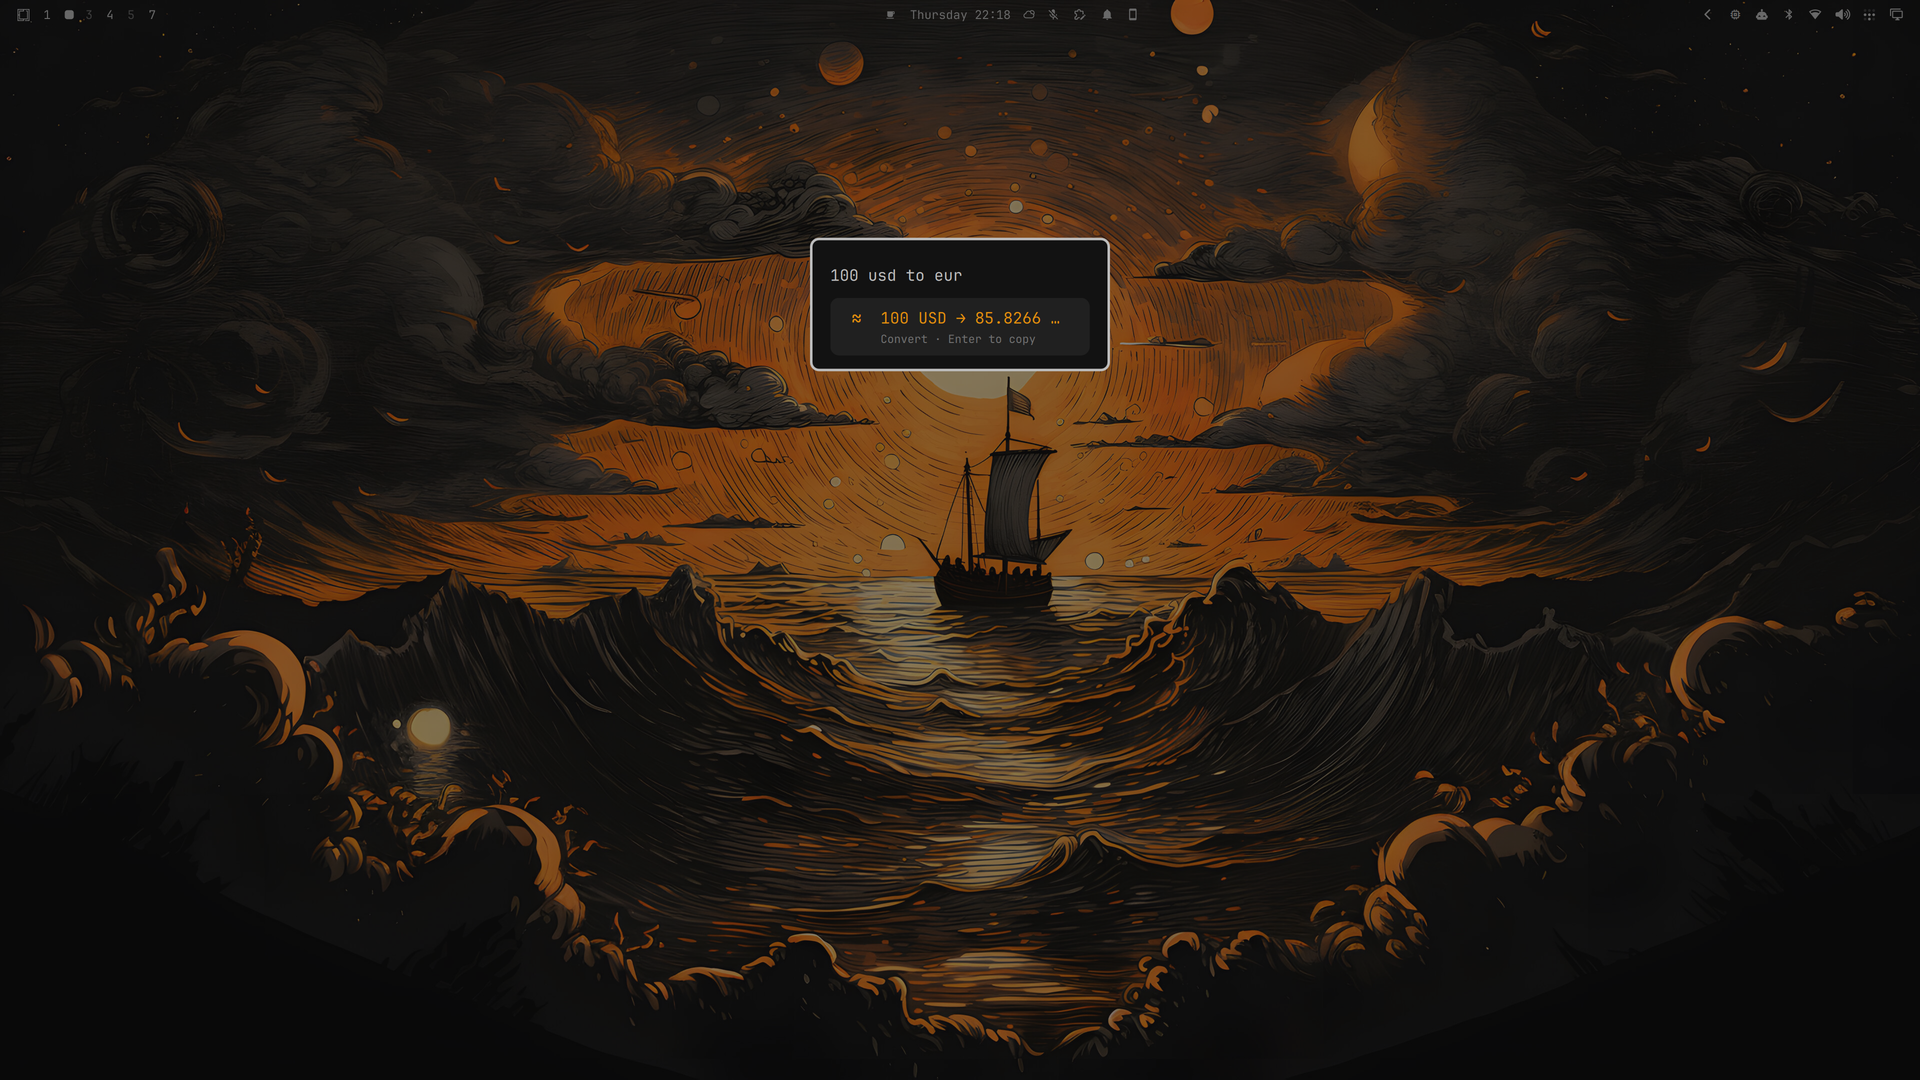
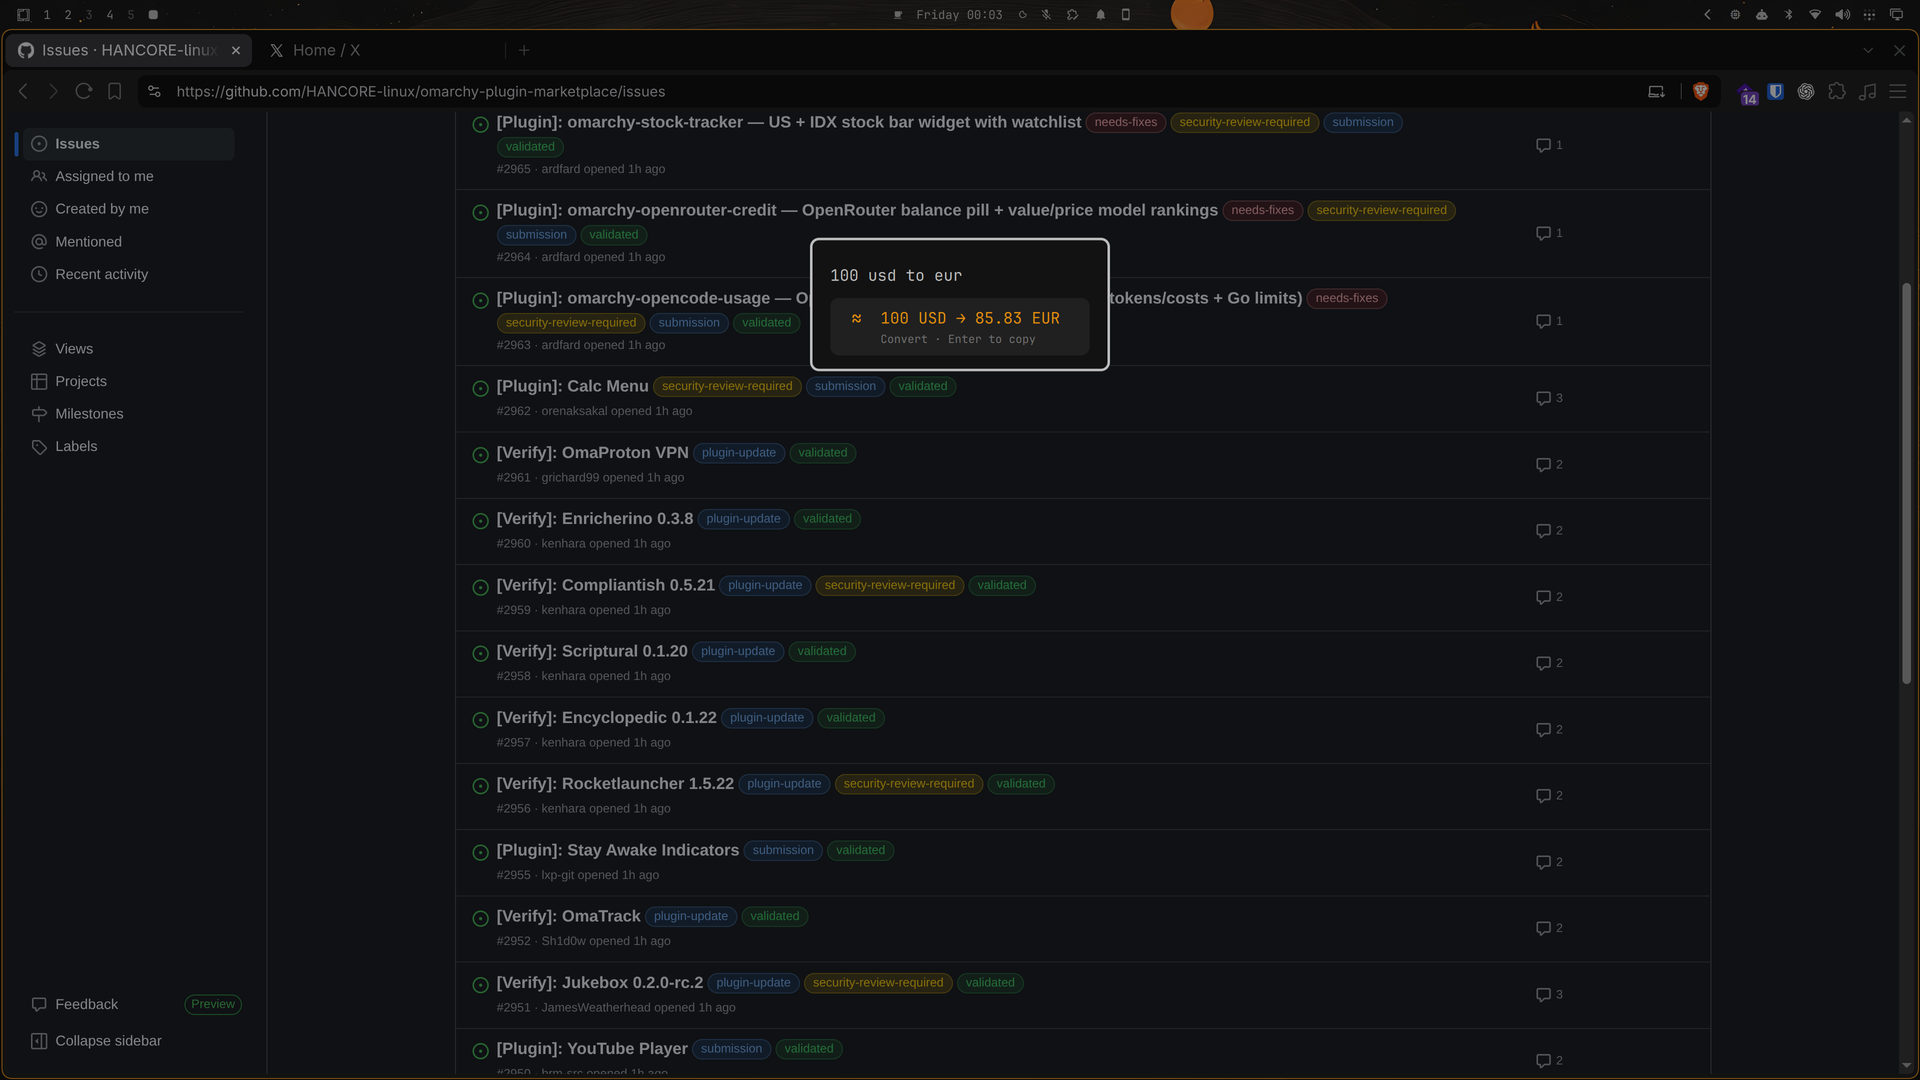
Round results to two decimals (money-style); refresh screenshots

diff --git a/Menu.qml b/Menu.qml
@@ -617,7 +617,7 @@ Item {
       return ""
     }
     if (typeof value !== "number" || !isFinite(value)) return ""
-    return String(Math.round(value * 1e10) / 1e10)
+    return root.formatNumber(value)
   }
 
   // ------------------------------------------------- unit & time conversion
@@ -906,13 +906,17 @@ Item {
     return celsius + 273.15
   }
 
-  // Format a conversion result to a reasonable number of significant digits,
-  // dropping trailing zeros.
+  // Format a result for display. Whole numbers stay exact; anything else is
+  // rounded to two decimals (trailing zeros dropped) like money. Values too
+  // small for two decimals, and very large magnitudes, fall back to a compact
+  // exponential form rather than showing a misleading "0".
   function formatNumber(value) {
     if (value === 0) return "0"
+    if (!isFinite(value)) return ""
     var abs = Math.abs(value)
-    var digits = abs >= 10000 ? 2 : abs >= 1 ? 6 : abs >= 0.0001 ? 8 : 10
-    return String(Number(value.toFixed(digits)))
+    if (Math.floor(value) === value && abs < 1e21) return String(value)
+    if (abs >= 1e21 || (abs > 0 && abs < 0.005)) return value.toExponential(2).replace(/\.?0+e/, "e")
+    return String(Number(value.toFixed(2)))
   }
 
   // Parse "<amount> <from-unit> to|in <to-unit>" (units may touch the number,

diff --git a/README.md b/README.md
@@ -51,7 +51,11 @@ present on any Arch base install.
 | `2^3^2`             | 512      |
 | `√16` or `sqrt(16)` | 4        |
 | `5!`                | 120 (factorial) |
-| `2*pi` or `2π`      | 6.283... |
+| `2*pi` or `2π`      | 6.28 |
+
+Results are rounded to **two decimals** (trailing zeros dropped); whole numbers
+display exactly. Values too small for two decimals and very large magnitudes
+use compact scientific notation (e.g. `1.23e-4`).
 
 The parser is whitelist-based — only digits, operators, `π pi √ ^ ! %` and
 parentheses are accepted, so a query can never execute code.
@@ -63,13 +67,13 @@ touch the unit):
 
 | You type                 | Result |
 |--------------------------|--------|
-| `10 km to miles`         | 10 km → 6.213712 miles |
+| `10 km to miles`         | 10 km → 6.21 miles |
 | `5ft in cm`              | 5 ft → 152.4 cm |
 | `2 hours to minutes`     | 2 hours → 120 minutes |
-| `100°f to c`             | 100 °f → 37.777778 c |
-| `1 ha to acres`          | 1 ha → 2.471054 acres |
-| `60 mph to km/h`         | 60 mph → 96.56064 km/h |
-| `1 bar to psi`           | 1 bar → 14.503774 psi |
+| `100°f to c`             | 100 °f → 37.78 c |
+| `1 ha to acres`          | 1 ha → 2.47 acres |
+| `60 mph to km/h`         | 60 mph → 96.56 km/h |
+| `1 bar to psi`           | 1 bar → 14.5 psi |
 | `1 kwh to kj`            | 1 kwh → 3600 kj |
 | `1 light-year to km`     | 1 light-year → 9460730472580.8 km |
 | `1 mt to kg`             | 1 mt → 1000000000 kg |
@@ -86,10 +90,10 @@ ISO codes, common abbreviations, and currency symbols are all accepted:
 
 | You type      | Result |
 |---------------|--------|
-| `100 usd to eur` | 100 USD → 85.8266 EUR |
-| `100$ to €`   | 100 $ → 85.8266 € |
+| `100 usd to eur` | 100 USD → 85.83 EUR |
+| `100$ to €`   | 100 $ → 85.83 € |
 | `£100 to ¥`   | 100 £ → 18860.76 ¥ |
-| `50 eur in usd` | 50 EUR → 58.256997 USD |
+| `50 eur in usd` | 50 EUR → 58.26 USD |
 
 Rates are fetched **once per day** (see below) and cached on disk, so currency
 works offline between refreshes. Rows built on the built-in fallback table are
